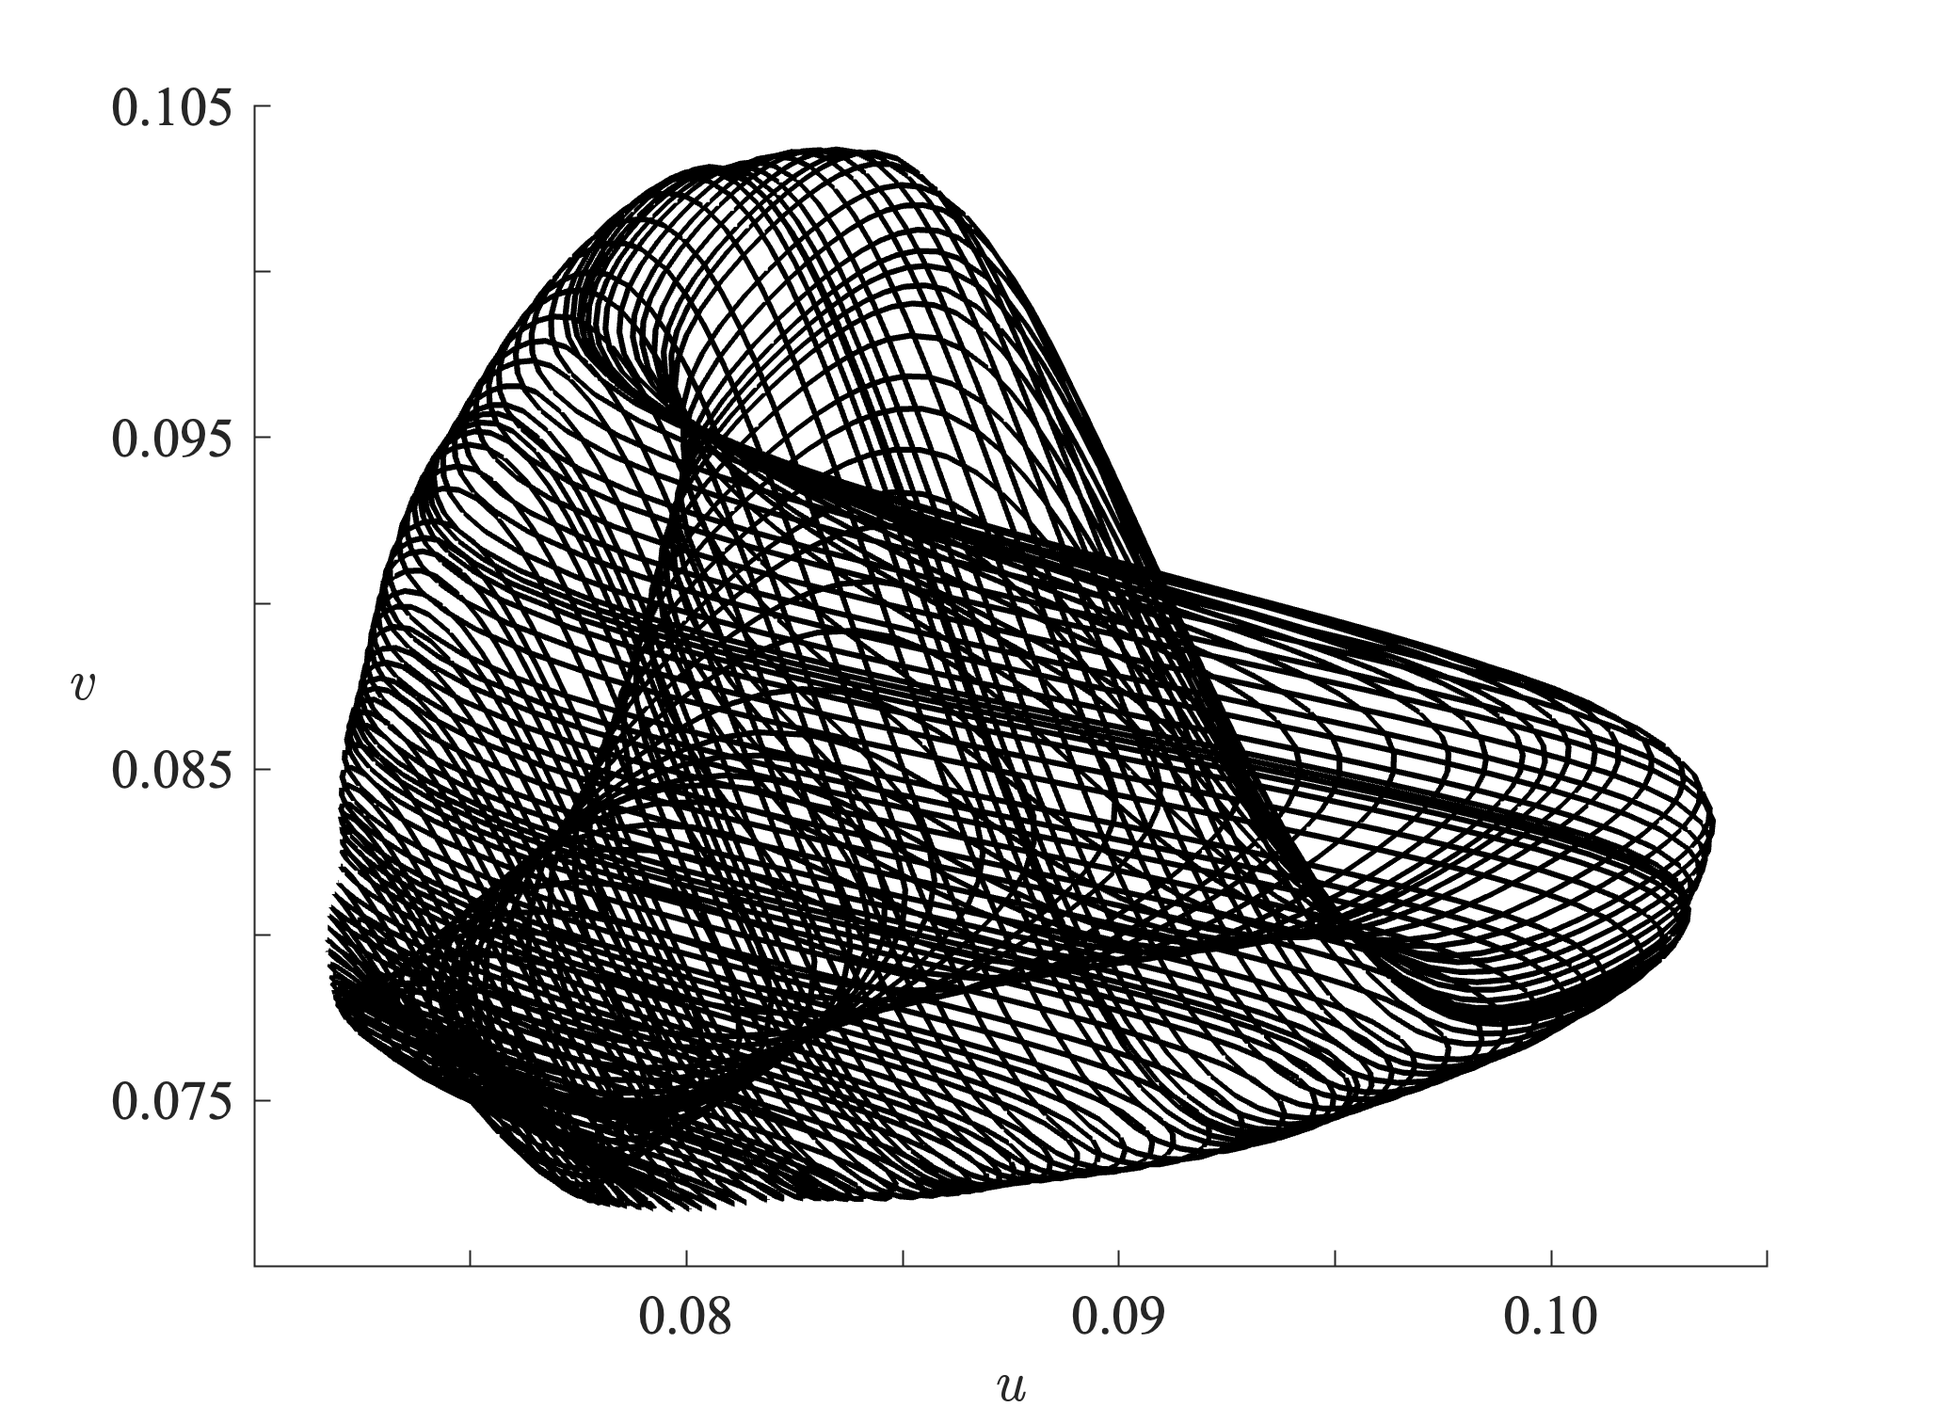
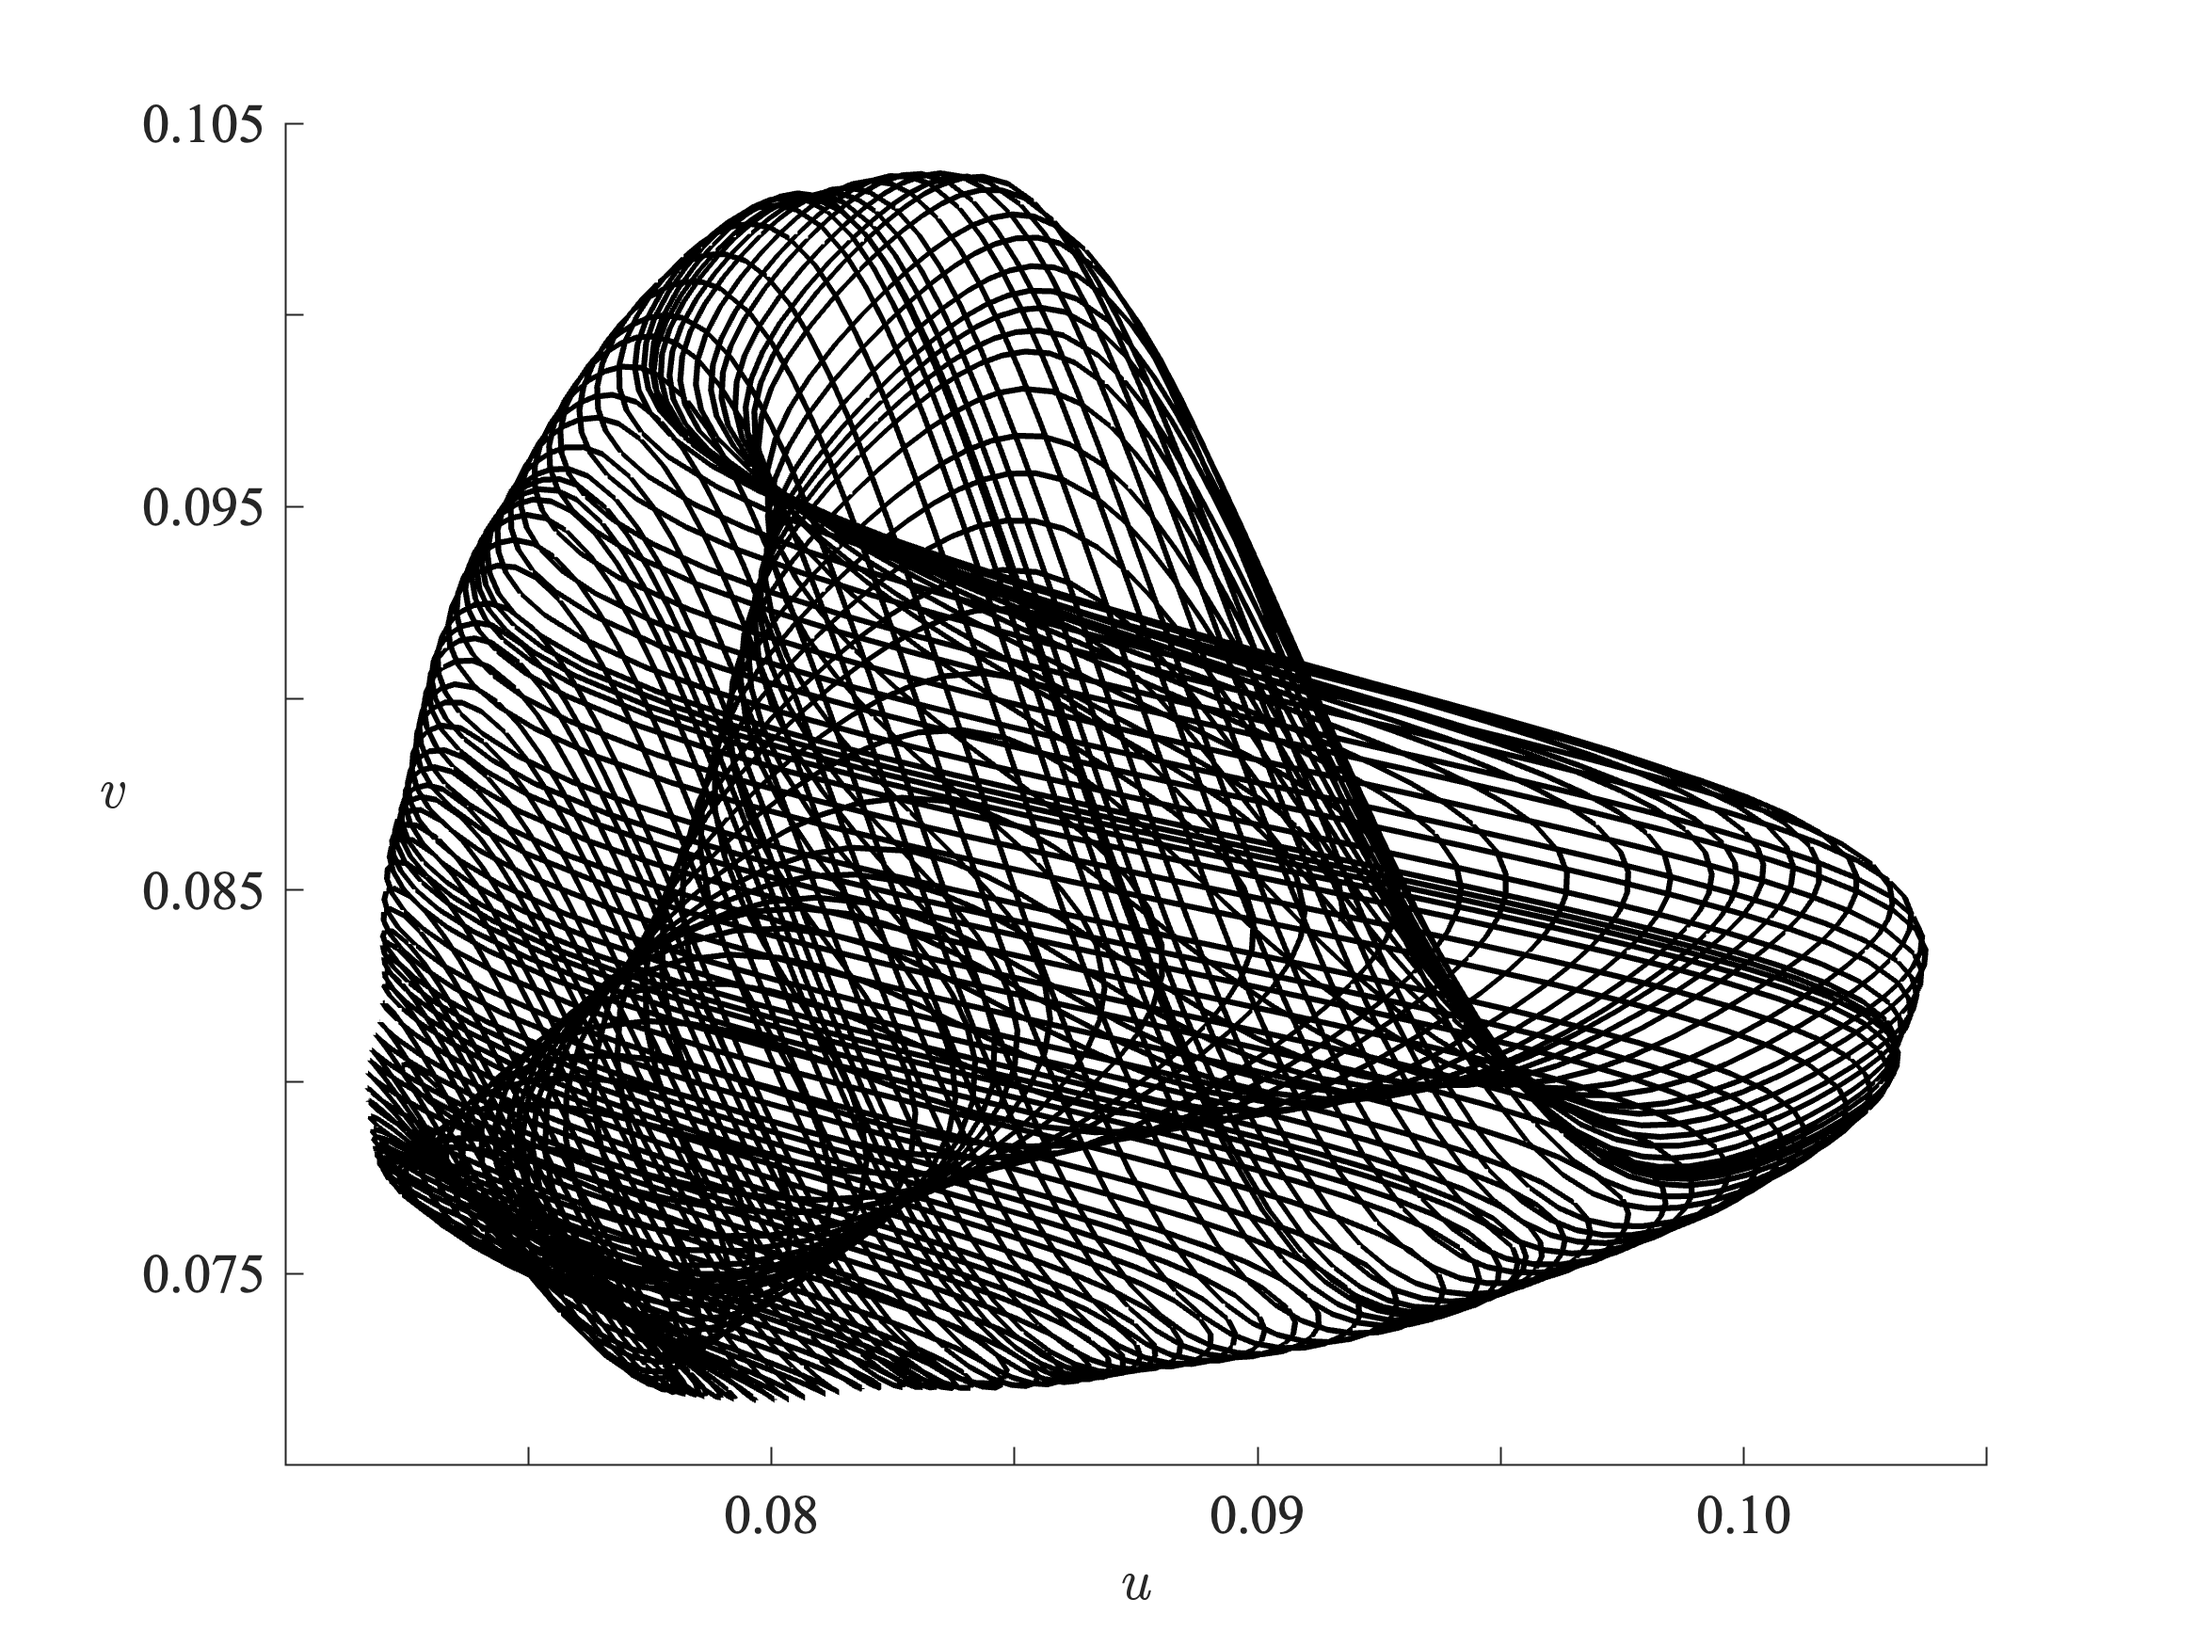
Update Figures

diff --git a/Code/delay_wilson_cowan.m b/Code/delay_wilson_cowan.m
@@ -1,5 +1,7 @@
 %% Modelling Delays in an Activity-Based Wilson-Cowan Neural Network
-addpath('helper_functions/')
+clearvars; clc;
+addpath('Code/helper_functions/');
+cd('Code/')
 
 %% Figure 1 Replicate
 % Select Parameters
@@ -206,13 +208,13 @@ yticks([0 0.5 1.0])
 yticklabels({'0', '0.5', '1.0'});
 
 % Add annotations
-annotation('textbox',[0.15 0.83 0.0446 0.0536],'String','$\mathit{u}$',...
+annotation('textbox',[0.14 0.81 0.0446 0.0536],'String','$\mathit{u}$',...
     'FontSize',14,'EdgeColor','none','Interpreter','latex');
-annotation('textbox',[0.15 0.63 0.0446 0.0536],'String','$\mathit{v}$',...
+annotation('textbox',[0.15 0.61 0.0446 0.0536],'String','$\mathit{v}$',...
     'FontSize',14,'EdgeColor','none','Interpreter','latex');
-annotation('textbox',[0.15 0.38 0.0446 0.0536],'String','$\mathit{u}$',...
+annotation('textbox',[0.15 0.37 0.0446 0.0536],'String','$\mathit{u}$',...
     'FontSize',14,'EdgeColor','none','Interpreter','latex');
-annotation('textbox',[0.15 0.21 0.0446 0.0536],'String','$\mathit{v}$',...
+annotation('textbox',[0.15 0.18 0.0446 0.0536],'String','$\mathit{v}$',...
     'FontSize',14,'EdgeColor','none','Interpreter','latex');
 
 % Save figure
